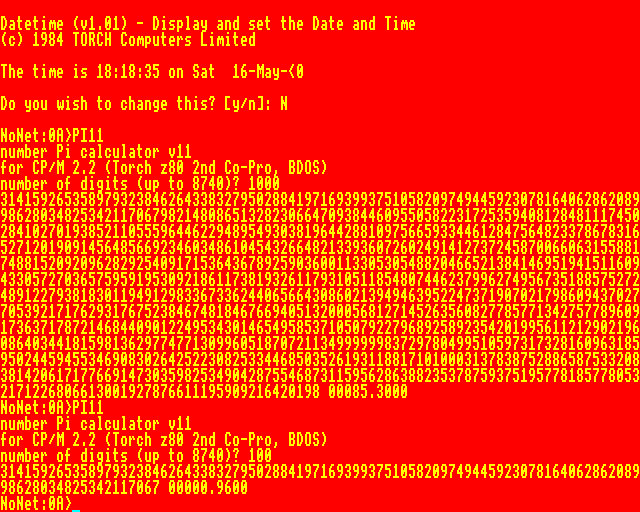
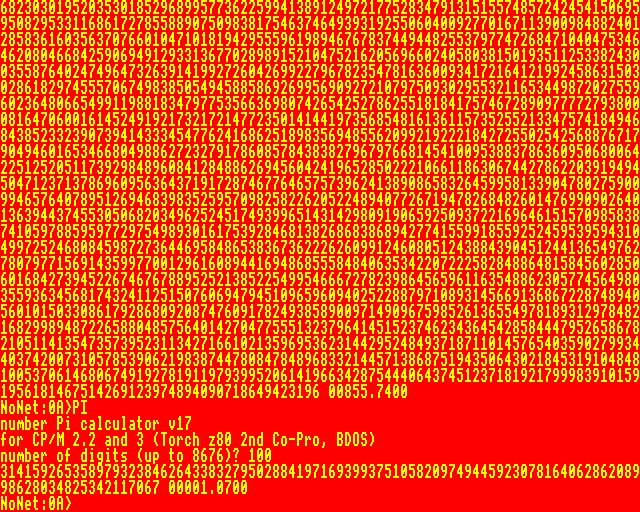
pi-spigot: results for the BBC Micro Z80 2nd Co-Pro (Acorn and Torch), Tiki-100, TRS-80 Model 2, C128 NTSC Z80 ROM Basic

Changed region(s): [[0.0, 0.0, 1.0, 0.8125], [0.1562, 0.8125, 0.5938, 0.9062], [0.3125, 0.9375, 0.375, 0.9688]]

diff --git a/pi-spigot-benchmark/pi-spigot-benchmark.html b/pi-spigot-benchmark/pi-spigot-benchmark.html
@@ -335,15 +335,15 @@ ma.push({computer: "TI-99/4A (E/A+32KB RAM)/NTSC", OS: "Basic", driver: "ti99-4a
 ma.push({computer: "BBC Micro (TUBE)", OS: "ROM Basic", driver: "bbc-8", connection: "display", t100: 0.79, t1000: 77.22, t3000: 690.39, maxd: 3800, source: "real iron (thanks to BigEd and Kieran)", estimation: true, comment: "B-em to real iron ratio is 1:1.0214 for 1000, lower for more digits ", cpu: "65C02", freq: 4, year: 1986, href: "https://en.wikipedia.org/wiki/BBC_Micro_expansion_unit#Universal_Second_Processor_Unit", cpu100: -1, cpu1000: -1, cpu3000: -1, fixed: 0, screenshot: ""})
 ma.push({computer: "VAX 11/730", OS: "BSD 4.3", driver: "vax-bsd-1", connection: "tcp/ip", t100: 1.5, t1000: 87.2, t3000: 737, maxd: 9244, source: "real iron (thanks to LCM+L)", estimation: false, comment: "1.499/87.179/736.891", cpu: "KA730", freq: 3.7, year: 1982, href: "https://gunkies.org/wiki/VAX-11/730", cpu100: -1, cpu1000: -1, cpu3000: -1, fixed: 0, screenshot: ""})
 ma.push({computer: "&#x414;BK-2M", OS: "RT11SJ (Y) 05.04", driver: "rt11-noeis-6", connection: "display", t100: 1.02, t1000: 89.92, t3000: 841.28, maxd: 6260, source: "real iron (thanks to MiX)", estimation: false, comment: "1.02/89.92/841.28", cpu: "K1801BM3", freq: 6, year: 1987, href: "https://en.wikipedia.org/wiki/DVK", cpu100: 0.95, cpu1000: 89.36, cpu3000: 839.6, fixed: 2, screenshot: ""})  //cpu100, ... are taken from eis-approx
-ma.push({computer: "BBC Micro (TUBE)", OS: "ROM Z80 Basic", driver: "bbc-z80-4", connection: "display", t100: 1.05, t1000: 96.5, t3000: 865.12, maxd: 6252, source: "real iron (thanks to BigEd)", estimation: true, comment: "B-em to real iron ratio is 1:1.3394 ", cpu: "Z80", freq: 6, year: 1984, href: "https://en.wikipedia.org/wiki/BBC_Micro_expansion_unit#Z80_Second_Processor", cpu100: -1, cpu1000: -1, cpu3000: -1, fixed: 0, screenshot: "rp/bbc-micro-acorn-z80-basic.png"})
-ma.push({computer: "BBC Micro (TUBE)", OS: "CP/M", driver: "cpm22bios-11-acorn", connection: "display", t100: 1.06, t1000: 96.6, t3000: 866, maxd: 8220, source: "real iron (thanks to BigEd)", estimation: true, comment: "B-em to real iron ratio is 1:1.3394", cpu: "Z80", freq: 6, year: 1984, href: "https://en.wikipedia.org/wiki/BBC_Micro_expansion_unit#Z80_Second_Processor", cpu100: -1, cpu1000: -1, cpu3000: -1, fixed: 0, screenshot: "rp/bbc-micro-acorn-z80-cpm.png"})
+ma.push({computer: "BBC Micro (TUBE)", OS: "ROM Z80 Basic", driver: "bbc-z80-6", connection: "display", t100: 0.95, t1000: 88.51, t3000: 793.51, maxd: 6216, source: "real iron (thanks to BigEd) + B-em v-756742d", estimation: true, comment: "B-em to real iron ratio is 1:1.00459", cpu: "Z80", freq: 6, year: 1984, href: "https://en.wikipedia.org/wiki/BBC_Micro_expansion_unit#Z80_Second_Processor", cpu100: -1, cpu1000: -1, cpu3000: -1, fixed: 0, screenshot: "rp/bbc-micro-acorn-z80-basic.png"})
+ma.push({computer: "BBC Micro (TUBE)", OS: "CP/M", driver: "cpm22bios-17-acorn", connection: "display", t100: .95, t1000: 88.55, t3000: 793.63, maxd: 8192, source: "real iron (thanks to BigEd) + B-em v-756742d", estimation: true, comment: "B-em to real iron ratio is 1:1.00459", cpu: "Z80", freq: 6, year: 1984, href: "https://en.wikipedia.org/wiki/BBC_Micro_expansion_unit#Z80_Second_Processor", cpu100: -1, cpu1000: -1, cpu3000: -1, fixed: 0, screenshot: "rp/bbc-micro-acorn-z80-cpm.png"})
 ma.push({computer: "BBC Micro (TUBE)", OS: "ROM Basic", driver: "bbc-8", connection: "display", t100: 1.09, t1000: 106.43, t3000: 951.16, maxd: 3800, source: "real iron (thanks to BigEd and hoglet)", estimation: true, comment: "Beebem to real iron ratio is 1:1.0494", cpu: "65C02", freq: 3, year: 1984, href: "http://beebwiki.mdfs.net/6502_Second_Processor", cpu100: -1, cpu1000: -1, cpu3000: -1, fixed: 0, screenshot: ""})
 ma.push({computer: "&#x414;BK-2M", OS: "RT11SJ (Y) 05.04", driver: "rt11-noeis-6", connection: "display", t100: 1.24, t1000: 110.9, t3000: 991, maxd: 6260, source: "real iron (thanks to MiX)", estimation: false, comment: "1.24/110.92/990.7", cpu: "K1801BM2", freq: 8.3, year: 1986, href: "https://en.wikipedia.org/wiki/DVK", cpu100: -1, cpu1000: -1, cpu3000: -1, fixed: 0, screenshot: ""})
 ma.push({computer: "PDP-11/34A", OS: "RT11 5.01 XM", driver: "rt11-noeis-5", connection: "display", t100: 1.42, t1000: 122.4, t3000: 1090, maxd: 6500, source: "real iron (thanks to elb) ", estimation: false, comment: "1.42/122.35/1090.27/2703.13 (for 4728?)", cpu: "KD11-EA", freq: 16.7, year: 1978, href: "https://gunkies.org/wiki/PDP-11/34A", cpu100: -1, cpu1000: -1, cpu3000: -1, fixed: 0, screenshot: ""})
 ma.push({computer: "&#x423;KH&#x426;", OS: "RT11SJ 5.02", driver: "rt11-noeis-5", connection: "display", t100: 1.38, t1000: 122.6, t3000: 1096, maxd: 6260, source: "real iron (thanks to Arseny) ", estimation: false, comment: "hot cpu: without cooling 1.48/29.2/1159", cpu: "K1801BM2", freq: 8, year: 1987, href: "https://en.wikipedia.org/wiki/UKNC", cpu100: -1, cpu1000: -1, cpu3000: -1, fixed: 0, screenshot: ""})
 ma.push({computer: "Commodore +4/PAL", OS: "ROM Basic", driver: "plus4-13", connection: "display", t100: 1.48, t1000: 143.53, t3000: 1281.52, maxd: 8080, source: "real iron", estimation: false, comment: "", cpu: "7501", freq: 2.2, year: 1984, href: "https://en.wikipedia.org/wiki/Commodore_Plus/4", cpu100: -1, cpu1000: -1, cpu3000: -1, fixed: 0, screenshot: "rp/plus4-pal.png"})
 ma.push({computer: "Commodore +4/NTSC", OS: "ROM Basic", driver: "plus4-13", connection: "display", t100: 1.83, t1000: 177.45, t3000: 1584.5, maxd: 8080, source: "plus4emu 1.2.9.2", estimation: false, comment: "", cpu: "7501", freq: 1.79, year: 1984, href: "https://en.wikipedia.org/wiki/Commodore_Plus/4", cpu100: -1, cpu1000: -1, cpu3000: -1, fixed: 0, screenshot: "rp/plus4-ntsc.png"})
-ma.push({computer: "BBC Micro (TUBE Torch)", OS: "CPN", driver: "cpm22bdos-11-torch", connection: "display", t100: 1.62, t1000: 145.09, t3000: 1298.41, maxd: 8740, source: "real iron (thanks to danielj)", estimation: true, comment: "Beebem to real iron ratio is 1:1.433628 [100], 1:1.420847 [1000], 1:1.4213667 [3000]", cpu: "Z80", freq: 4, year: 1984, href: "https://en.wikipedia.org/wiki/BBC_Micro_expansion_unit#Other_Second_Processors", cpu100: -1, cpu1000: -1, cpu3000: -1, fixed: 0, screenshot: "rp/bbc-micro-torch-cpn.png"})
+ma.push({computer: "BBC Micro (TUBE Torch)", OS: "CPN", driver: "cpm22bdos-17-torch", connection: "display", t100: 1.41, t1000: 134.9, t3000: 1200.11, maxd: 8676, source: "real iron (thanks to danielj) + BeebEm 4.19", estimation: true, comment: "", cpu: "Z80", freq: 4, year: 1984, href: "https://en.wikipedia.org/wiki/BBC_Micro_expansion_unit#Other_Second_Processors", cpu100: -1, cpu1000: -1, cpu3000: -1, fixed: 0, screenshot: "rp/bbc-micro-torch-cpn.png"}) //the original data from danielj was for v3/pack #16, Beebem 4.19 to real iron ratio is 1:1.32 [100], 1:1.41 [1000/3000]
 ma.push({computer: "BBC Micro", OS: "ROM Basic", driver: "bbc-8", connection: "display", t100: 1.64, t1000: 157.85, t3000: 1409.76, maxd: 3436, source: "real iron (thanks to BigEd and hoglet)", estimation: true, comment: "B-em to real iron ratio is 1:1", cpu: "6502", freq: 2, year: 1981, href: "https://en.wikipedia.org/wiki/BBC_Micro", cpu100: -1, cpu1000: -1, cpu3000: -1, fixed: 0, screenshot: "rp/bbc-micro.png"})
 ma.push({computer: "Tandy CoCo 3/NTSC", OS: "ROM Basic", driver: "coco-2", connection: "display", t100: 1.68, t1000: 155.13, t3000: 1391.67, maxd: 3064, source: "XRoar 1.07", estimation: false, comment: "", cpu: "6809", freq: 1.79, year: 1986, href: "https://en.wikipedia.org/wiki/TRS-80_Color_Computer", cpu100: -1, cpu1000: -1, cpu3000: -1, fixed: 0, screenshot: "rp/coco3.png"})
 ma.push({computer: "Tandy CoCo 2B/NTSC", OS: "ROM Basic", driver: "coco-1", connection: "display", t100: 1.7, t1000: 156.43, t3000: 1403.35, maxd: 3032, source: "XRoar 0.34.1", estimation: false, comment: "XRoar 0.34.1 1.7/157.6/1414", cpu: "6809", freq: 1.79, year: 1983, href: "https://en.wikipedia.org/wiki/TRS-80_Color_Computer", cpu100: -1, cpu1000: -1, cpu3000: -1, fixed: 0, screenshot: "rp/coco2b.png"})
@@ -352,7 +352,7 @@ ma.push({computer: "Commodore 128/NTSC", OS: "ROM Basic", driver: "c128-14", con
 ma.push({computer: "Commodore 128/PAL", OS: "ROM Basic", driver: "c128-14", connection: "display-40", t100: 1.6, t1000: 161.1, t3000: 1439.1, maxd: 5376, source: "VICE 3.7.1", estimation: false, comment: "", cpu: "8502", freq: 1.97, year: 1985, href: "https://en.wikipedia.org/wiki/Commodore_128", cpu100: 1.6, cpu1000: 160.6, cpu3000: 1436.8, fixed: 0, screenshot: "rp/c128-pal.png"})  //5376 - 4615.5s
 ma.push({computer: "ZX Spectrum 48k", OS: "ROM Basic", driver: "zx-2", connection: "display", t100: 1.88, t1000: 168.41, t3000: 1505.07, maxd: 4400, source: "ep128emu 2.0.9.1", estimation: false, comment: "", cpu: "Z80", freq: 3.5, year: 1982, href: "https://en.wikipedia.org/wiki/ZX_Spectrum", cpu100: -1, cpu1000: -1, cpu3000: -1, fixed: 0, screenshot: "rp/zx.png"})
 ma.push({computer: "Amstrad CPC6128", OS: "ROM Basic", driver: "cpc-10", connection: "display", t100: 1.87, t1000: 161.07, t3000: 1435.38, maxd: 5500, source: "ep128emu 2.0.11", estimation: false, comment: "", cpu: "Z80", freq: 4, year: 1985, href: "https://en.wikipedia.org/wiki/Amstrad_CPC", cpu100: -1, cpu1000: -1, cpu3000: -1, fixed: 0, screenshot: "rp/cpc6128-basic.png"})
-ma.push({computer: "Tiki-100", OS: "KP/M", driver: "cpm22bios-11-tiki100", connection: "display", t100: 2.04, t1000: 175.5, t3000: 1565, maxd: 7636, source: "real iron (thanks to per)", estimation: true, comment: "", cpu: "Z80", freq: 4, year: 1984, href: "https://en.wikipedia.org/wiki/Tiki_100", cpu100: -1, cpu1000: -1, cpu3000: -1, fixed: 0, screenshot: "rp/tiki-100.png"})
+ma.push({computer: "Tiki-100", OS: "KP/M", driver: "cpm22bios-17-tiki100", connection: "display", t100: 1.86, t1000: 160.91, t3000: 1435.42, maxd: 7604, source: "real iron (thanks to per) + tikiemul 1.1.1", estimation: true, comment: "", cpu: "Z80", freq: 4, year: 1984, href: "https://en.wikipedia.org/wiki/Tiki_100", cpu100: -1, cpu1000: -1, cpu3000: -1, fixed: 0, screenshot: ""}) //rp/tiki-100.png
 ma.push({computer: "Amstrad CPC6128", OS: "CP/M 2.2", driver: "cpm22bios-16-cpc6128", connection: "display", t100: 1.98, t1000: 169.01, t3000: 1504.83, maxd: 5960, source: "ep128emu 2.0.11", estimation: false, comment: "", cpu: "Z80", freq: 4, year: 1985, href: "https://en.wikipedia.org/wiki/Amstrad_CPC", cpu100: -1, cpu1000: -1, cpu3000: -1, fixed: 0, screenshot: "rp/cpc6128-cpm22.png"})
 ma.push({computer: "Amstrad CPC6128", OS: "CP/M 3", driver: "cpc-cpm3-13", connection: "display", t100: 2.18, t1000: 176.84, t3000: 1566.27, maxd: 8628, source: "ep128emu 2.0.11", estimation: false, comment: "", cpu: "Z80", freq: 4, year: 1985, href: "https://en.wikipedia.org/wiki/Amstrad_CPC", cpu100: 1.87, cpu1000: 172.66, cpu3000: 1555.62, fixed: 0, screenshot: "rp/cpc6128-cpm3.png"})
 ma.push({computer: "Amstrad CPC6128", OS: "CP/M 3", driver: "cpc-cpm3-13", connection: "disk", t100: 3.61, t1000: 176.47, t3000: 1564.80, maxd: 8336, source: "ep128emu 2.0.11", estimation: false, comment: "", cpu: "Z80", freq: 4, year: 1985, href: "https://en.wikipedia.org/wiki/Amstrad_CPC", cpu100: -1, cpu1000: -1, cpu3000: -1, fixed: 0, screenshot: ""})
@@ -381,9 +381,9 @@ ma.push({computer: "Apple IIe", OS: "Applesoft Basic", driver: "apple2e-2", conn
 ma.push({computer: "Kop&#x432;e&#x442;", OS: "CP/M 2.2", driver: "cpm22bios-8080-7-korvet", connection: "display", t100: 2.68, t1000: 230.54, t3000: 2045.66, maxd: 7496, source: "Emu80 4.0.457", estimation: false, comment: "emu difference is below below 0.55% for Sancho45's computer", cpu: "8080", freq: 2.5, year: 1987, href: "https://en.wikipedia.org/wiki/Corvette_(computer)", cpu100: 2.64, cpu1000: 229.92, cpu3000: 2043.5, fixed: 0, screenshot: "rp/korvet.png"})
 ma.push({computer: "Kop&#x432;e&#x442;", OS: "CP/M 2.2", driver: "cpm22bdos-8080-6-korvet", connection: "display", t100: 2.72, t1000: 230.82, t3000: 2046.52, maxd: 6984, source: "Emu80 4.0.457", estimation: true, comment: "", cpu: "8080", freq: 2.5, year: 1987, href: "https://en.wikipedia.org/wiki/Corvette_(computer)", cpu100: -1, cpu1000: -1, cpu3000: -1, fixed: 0, screenshot: "rp/korvet-bdos.png"})
 ma.push({computer: "Tandy TRS-80 Model I", OS: "TRSDOS 2.3", driver: "trsdos-m1-1", connection: "display", t100: 3.7, t1000: 337.65, t3000: 3024.08, maxd: 6068, source: "trs80gp v2.4.3", estimation: false, comment: "", cpu: "Z80", freq: 1.77, year: 1977, href: "https://en.wikipedia.org/wiki/TRS-80", cpu100: -1, cpu1000: -1, cpu3000: -1, fixed: 0, screenshot: "rp/trs-80-m1.png"})
-ma.push({computer: "Tandy TRS-80 Model II", OS: "Pickles &amp; Trout CP/M", driver: "cpm22pt-bios-13", connection: "display", t100: 1.62, t1000: 146.65, t3000: 1313.34, maxd: 8220, source: "trs80gp v2.4.3", estimation: false, comment: "", cpu: "Z80", freq: 4.00, year: 1979, href: "https://en.wikipedia.org/wiki/TRS-80_Model_II", cpu100: -1, cpu1000: -1, cpu3000: -1, fixed: 0, screenshot: "rp/trs-80-m2.png"})
+ma.push({computer: "Tandy TRS-80 Model II", OS: "Pickles &amp; Trout CP/M", driver: "cpm22pt-bios-17", connection: "display", t100: 1.47, t1000: 134.8, t3000: 1207.22, maxd: 8192, source: "trs80gp v2.5.3", estimation: false, comment: "", cpu: "Z80", freq: 4.00, year: 1979, href: "https://en.wikipedia.org/wiki/TRS-80_Model_II", cpu100: -1, cpu1000: -1, cpu3000: -1, fixed: 0, screenshot: "rp/trs-80-m2.png"})
 ma.push({computer: "Tandy TRS-80 Model III", OS: "TRSDOS 1.3", driver: "trsdos-m3-1", connection: "display", t100: 3.17, t1000: 288.2, t3000: 2581.1, maxd: 6068, source: "trs80gp v2.4.3", estimation: false, comment: "", cpu: "Z80", freq: 2.03, year: 1980, href: "https://en.wikipedia.org/wiki/TRS-80", cpu100: -1, cpu1000: -1, cpu3000: -1, fixed: 0, screenshot: "rp/trs-80-m3.png"})
-ma.push({computer: "Tandy TRS-80 Model 4", OS: "TRSDOS 6.2", driver: "trsdos-m4-1", connection: "display", t100: 2.17, t1000: 193.97, t3000: 1735.68, maxd: 7312, source: "trs80gp v2.4.3", estimation: false, comment: "", cpu: "Z80", freq: 4.06, year: 1983, href: "https://en.wikipedia.org/wiki/TRS-80_Model_4", cpu100: -1, cpu1000: -1, cpu3000: -1, fixed: 0, screenshot: "rp/trs-80-m4p.png"})
+//ma.push({computer: "Tandy TRS-80 Model 4", OS: "TRSDOS 6.2", driver: "trsdos-m4-1", connection: "display", t100: 2.17, t1000: 193.97, t3000: 1735.68, maxd: 7312, source: "trs80gp v2.4.3", estimation: false, comment: "", cpu: "Z80", freq: 4.06, year: 1983, href: "https://en.wikipedia.org/wiki/TRS-80_Model_4", cpu100: -1, cpu1000: -1, cpu3000: -1, fixed: 0, screenshot: "rp/trs-80-m4p.png"})
 ma.push({computer: "Tandy TRS-80 Model 4P", OS: "TRSDOS 6.2", driver: "trsdos-m4-1", connection: "display", t100: 1.67, t1000: 149.18, t3000: 1334.65, maxd: 7312, source: "trs80gp v2.4.3", estimation: false, comment: "", cpu: "Z80", freq: 4.06, year: 1983, href: "https://en.wikipedia.org/wiki/TRS-80_Model_4", cpu100: -1, cpu1000: -1, cpu3000: -1, fixed: 0, screenshot: "rp/trs-80-m4p.png"})
 ma.push({computer: "Commodore 128/NTSC", OS: "CP/M 3", driver: "cpm22bdos-16-c128", connection: "display-40", t100: 3.2, t1000: 263.3, t3000: 2338.6, maxd: 8156, source: "VICE 3.8", estimation: false, comment: "", cpu: "Z80", freq: 2.05, year: 1985, href: "https://en.wikipedia.org/wiki/Commodore_128", cpu100: 2.8, cpu1000: 259.2, cpu3000: 2325.4, fixed: 0, screenshot: "rp/c128-cpm-40col-ntsc.png"})
 ma.push({computer: "Commodore 128/NTSC", OS: "CP/M 3", driver: "cpm22bdos-16-c128", connection: "display-80", t100: 3.1, t1000: 262.2, t3000: 2334.7, maxd: 8156, source: "VICE 3.8", estimation: false, comment: "", cpu: "Z80", freq: 2.05, year: 1985, href: "https://en.wikipedia.org/wiki/Commodore_128", cpu100: 2.8, cpu1000: 259.1, cpu3000: 2325.4, fixed: 0, screenshot: "rp/c128-cpm-80col-ntsc.png"})
@@ -393,6 +393,7 @@ ma.push({computer: "Commodore 128/PAL", OS: "CP/M 3", driver: "cpm22bdos-16-c128
 ma.push({computer: "Commodore 128/PAL", OS: "CP/M 3", driver: "cpm22bdos-16-c128", connection: "disk C1571", t100: 8.1, t1000: 336.5, t3000: 3000.6, maxd: 7860, source: "VICE 3.8", estimation: false, comment: "", cpu: "Z80", freq: 1.97, year: 1985, href: "https://en.wikipedia.org/wiki/Commodore_128", cpu100: -1, cpu1000: -1, cpu3000: -1, fixed: 0, screenshot: ""})
 ma.push({computer: "Commodore 128/PAL", OS: "ROM Basic", driver: "c128-z80-2", connection: "display-40", t100: 2.9, t1000: 270.4, t3000: 2419, maxd: 7348, source: "VICE 3.8", estimation: false, comment: "", cpu: "Z80", freq: 1.97, year: 1985, href: "https://en.wikipedia.org/wiki/Commodore_128", cpu100: -1, cpu1000: -1, cpu3000: -1, fixed: 0, screenshot: "rp/c128-z80-40col.png"})
 ma.push({computer: "Commodore 128/PAL", OS: "ROM Basic", driver: "c128-z80-2", connection: "display-80", t100: 3, t1000: 270.3, t3000: 2418.1, maxd: 7348, source: "VICE 3.8", estimation: false, comment: "", cpu: "Z80", freq: 1.97, year: 1985, href: "https://en.wikipedia.org/wiki/Commodore_128", cpu100: -1, cpu1000: -1, cpu3000: -1, fixed: 0, screenshot: ""}) //7348 - 14739.1
+ma.push({computer: "Commodore 128/NTSC", OS: "ROM Basic", driver: "c128-z80-2", connection: "display-80", t100: 2.9, t1000: 260.4, t3000: 2329.5, maxd: 7348, source: "VICE 3.8", estimation: false, comment: "", cpu: "Z80", freq: 2.05, year: 1985, href: "https://en.wikipedia.org/wiki/Commodore_128", cpu100: -1, cpu1000: -1, cpu3000: -1, fixed: 0, screenshot: ""})
 ma.push({computer: "Sony HB-F700P", OS: "ROM Basic", driver: "msx-9", connection: "display", t100: 2.04, t1000: 188.13, t3000: 1686.53, maxd: 3000, source: "real iron (thanks to Yandex Museum)", estimation: true, comment: "MSX 2", cpu: "Z80", freq: 3.58, year: 1986, href: "https://www.msx.org/wiki/Category:Sony_HB-F700", cpu100: -1, cpu1000: -1, cpu3000: -1, fixed: 0, screenshot: "rp/sony-HB-F700P.jpg"})
 ma.push({computer: "Sony HB-F700P", OS: "MSX DOS", driver: "cpm22bdos-16-msx", connection: "display", t100: 2.24, t1000: 194.51, t3000: 1735.24, maxd: 7424, source: "real iron (thanks to Yandex Museum)", estimation: true, comment: "MSX 2", cpu: "Z80", freq: 3.58, year: 1986, href: "https://www.msx.org/wiki/Category:Sony_HB-F700", cpu100: -1, cpu1000: -1, cpu3000: -1, fixed: 0, screenshot: ""})
 ma.push({computer: "Macintosh LC580", OS: "MacOS 7.5.3", driver: "mac-4", connection: "display", t100: 0.03, t1000: 0.99, t3000: 7.6, maxd: 9228, source: "real iron (thanks to Yandex Museum)", estimation: false, comment: "", cpu: "68LC040", freq: 33, year: 1995, href: "https://en.wikipedia.org/wiki/Macintosh_LC_500_series#LC_580", cpu100: 0, cpu1000: 0.77, cpu3000: 6.93, fixed: 0, screenshot: "rp/mac-lc580.jpg"})  //9200 no io 63.87, 6000 io 30.50 
@@ -529,7 +530,7 @@ ma.sort(function(a, b){ return a.t3000 - b.t3000 })
 <tr><td>rt11-noeis-7<td>PDP-11<td align=right>734<td align=right>1476<sup>*2</sup>
 <tr><td>scpu64-7<td>65816<td align=right>250+768=1018<sup>*5</sup><td align=right>[1764+228+2]=1994<sup>*7</sup>
 <tr><td>apple2gs-1<td>65816<td align=right>250+768=1018<sup>*5</sup><td align=right>1906+416=2322<sup>*1</sup>
-<tr><td>bbc-z80-3<td>Z80<td align=right>748+768=1516<sup>*5</sup><td align=right>1792+292=2084<sup>*1</sup>
+<tr><td>bbc-z80-6<td>Z80<td align=right>1078+768=1846<sup>*5</sup><td align=right>2048+289=2337<sup>*1</sup>
 <tr><td>msx-9<td>Z80<td align=right>725+768=1493<sup>*5</sup><td align=right>1799+452=2251<sup>*1</sup>
 <tr><td>cpm22bios-16<td>Z80<td align=right>1078+768=1846<sup>*5</sup><td align=right>2534&mdash;2534
 <tr><td>trsdos-m1-1<td>Z80<td align=right>748+768=1516<sup>*5</sup><td align=right>2284
